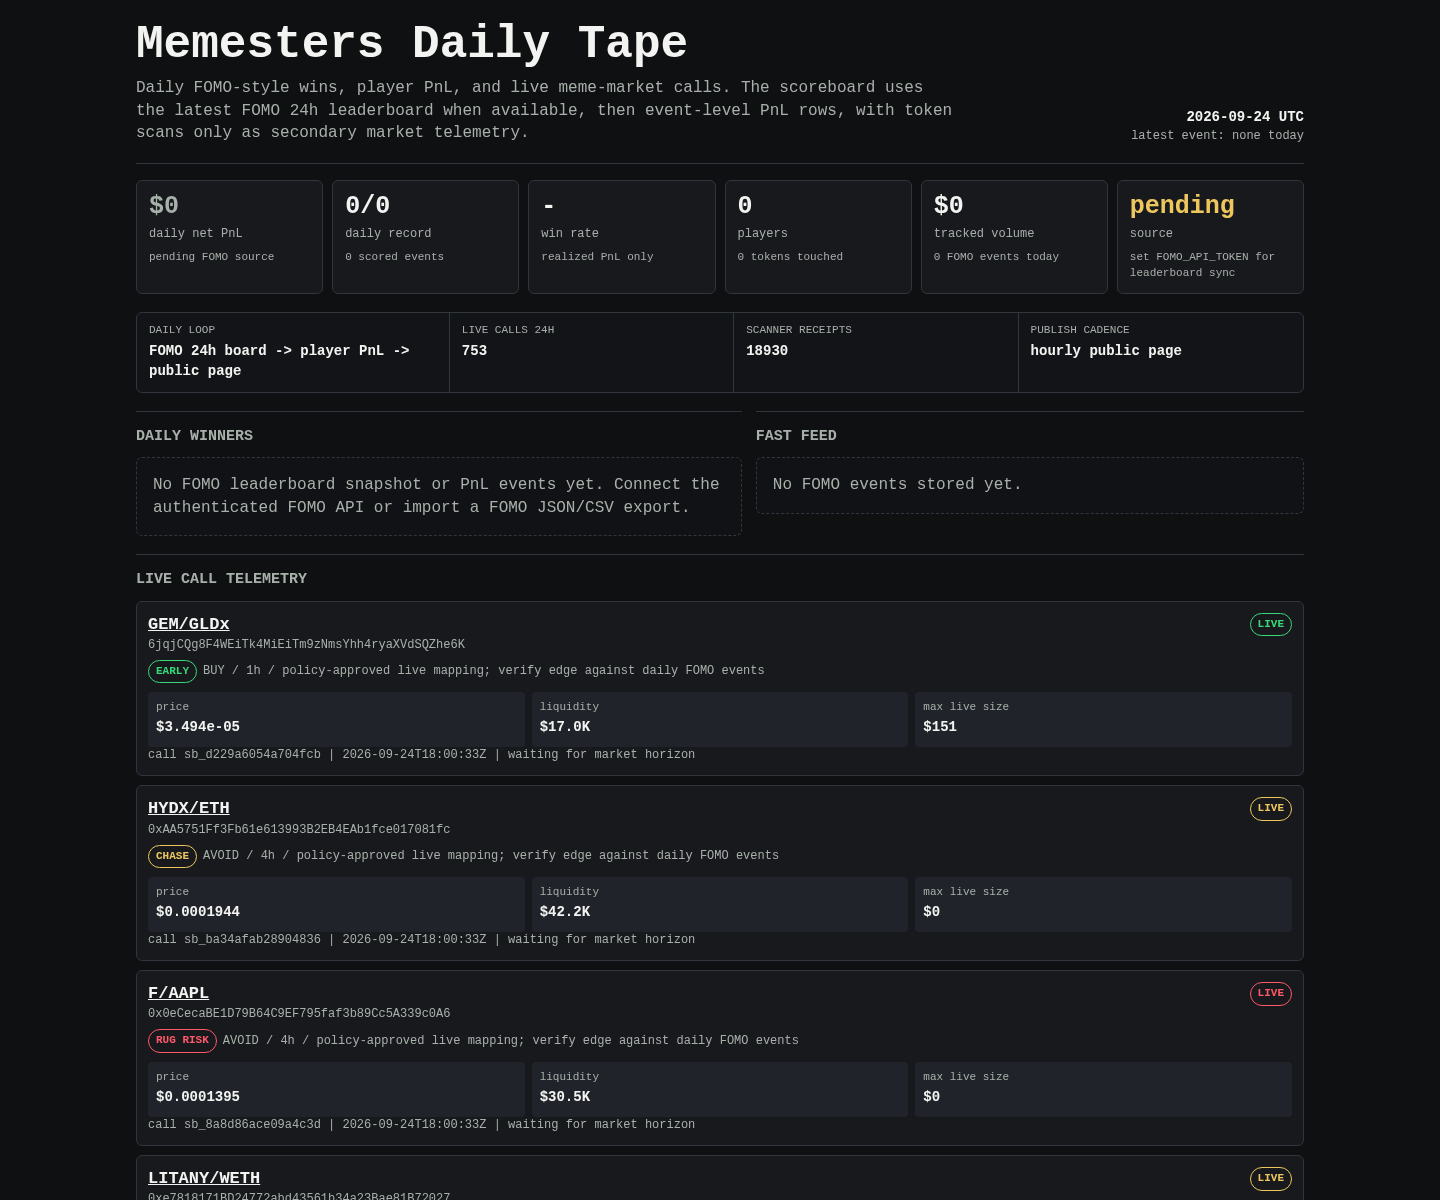
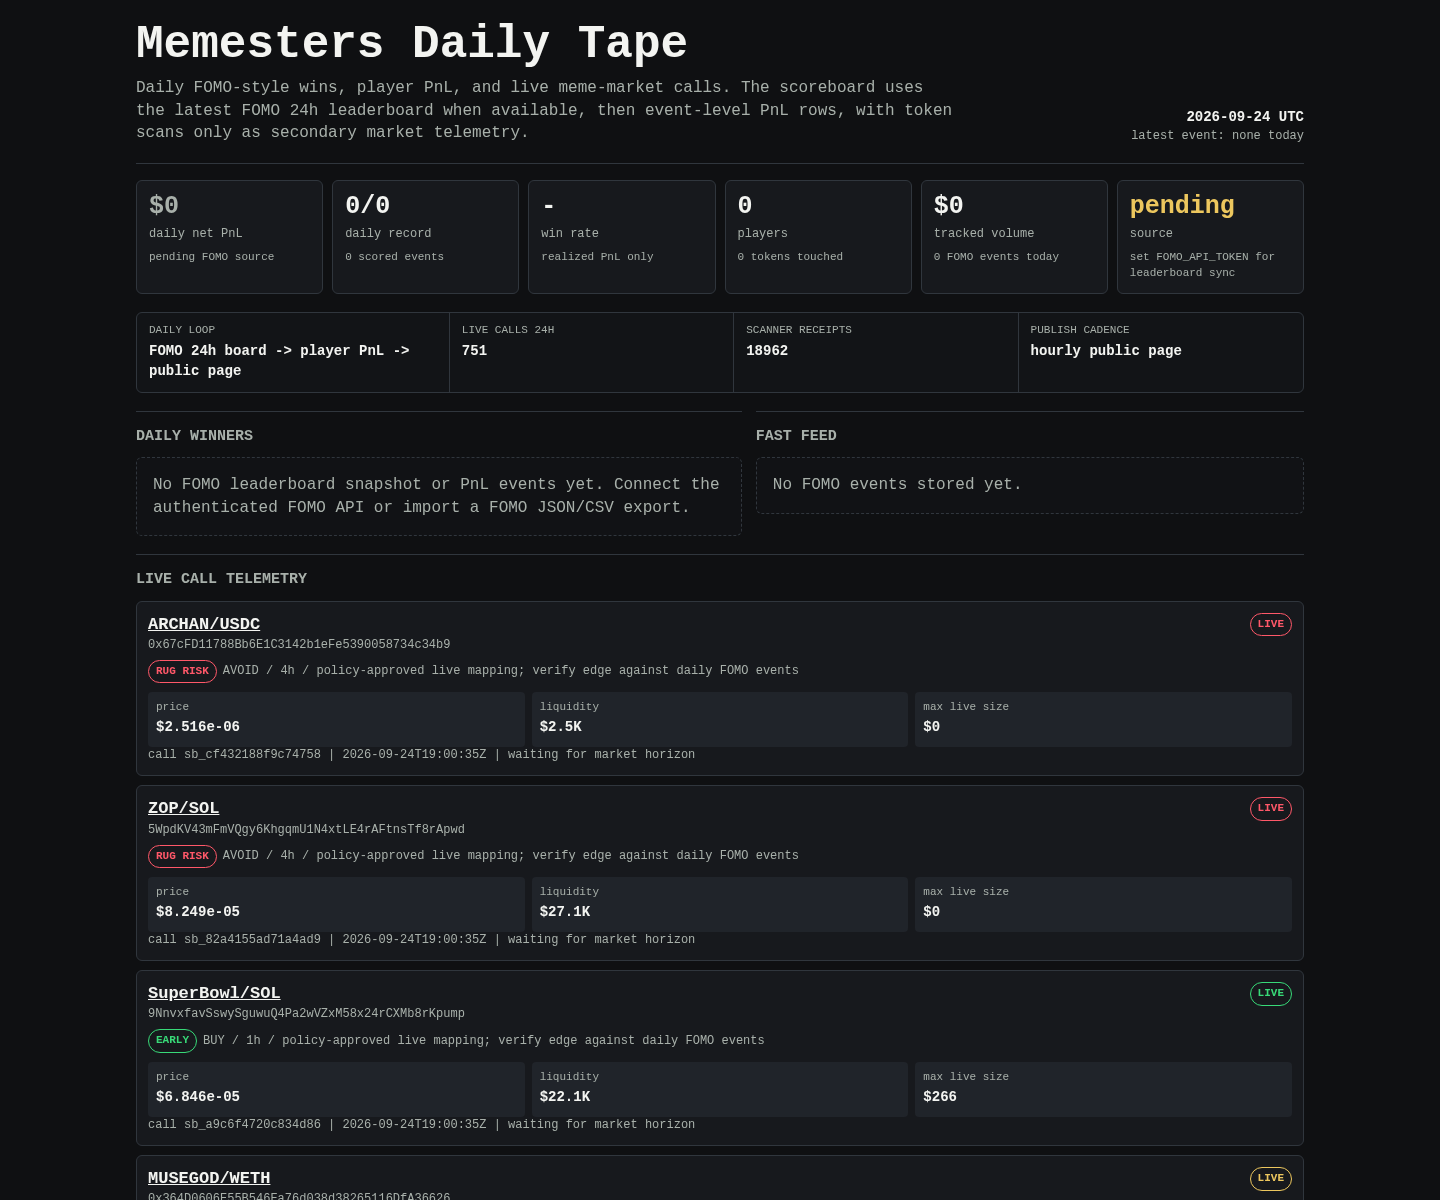
Update Memesters scoreboard

diff --git a/memesters/index.html b/memesters/index.html
@@ -149,8 +149,8 @@
 
     <div class="rail" aria-label="live operating loop">
       <div><span>daily loop</span><b>FOMO 24h board -> player PnL -> public page</b></div>
-      <div><span>live calls 24h</span><b>753</b></div>
-      <div><span>scanner receipts</span><b>18930</b></div>
+      <div><span>live calls 24h</span><b>751</b></div>
+      <div><span>scanner receipts</span><b>18962</b></div>
       <div><span>publish cadence</span><b>hourly public page</b></div>
     </div>
 
@@ -171,50 +171,8 @@
     <article class="receipt">
       <div class="receipt-head">
         <div>
-          <div class="pair"><a href="https://dexscreener.com/solana/anpxzzerfywfpuepyzd6da4nvwlhx4eerxwnakofdsrr">GEM/GLDx</a></div>
-          <div class="addr">6jqjCQg8F4WEiTk4MiEiTm9zNmsYhh4ryaXVdSQZhe6K</div>
-          <div class="addr policy-line">
-            <span class="badge early">EARLY</span>
-            <span>BUY / 1h / policy-approved live mapping; verify edge against daily FOMO events</span>
-          </div>
-        </div>
-        <span class="badge early">LIVE</span>
-      </div>
-      <div class="receipt-grid">
-        <div class="kv"><span>price</span><b>$3.494e-05</b></div>
-        <div class="kv"><span>liquidity</span><b>$17.0K</b></div>
-        <div class="kv"><span>max live size</span><b>$151</b></div>
-      </div>
-      <div class="outcomes">call sb_d229a6054a704fcb | 2026-09-24T18:00:33Z | waiting for market horizon</div>
-    </article>
-    
-
-    <article class="receipt">
-      <div class="receipt-head">
-        <div>
-          <div class="pair"><a href="https://dexscreener.com/robinhood/0x2f509c6e2675a1a7945902c64ba4aefaef32b2fbf34245f12078a1d0573db170">HYDX/ETH</a></div>
-          <div class="addr">0xAA5751Ff3Fb61e613993B2EB4EAb1fce017081fc</div>
-          <div class="addr policy-line">
-            <span class="badge chase">CHASE</span>
-            <span>AVOID / 4h / policy-approved live mapping; verify edge against daily FOMO events</span>
-          </div>
-        </div>
-        <span class="badge chase">LIVE</span>
-      </div>
-      <div class="receipt-grid">
-        <div class="kv"><span>price</span><b>$0.0001944</b></div>
-        <div class="kv"><span>liquidity</span><b>$42.2K</b></div>
-        <div class="kv"><span>max live size</span><b>$0</b></div>
-      </div>
-      <div class="outcomes">call sb_ba34afab28904836 | 2026-09-24T18:00:33Z | waiting for market horizon</div>
-    </article>
-    
-
-    <article class="receipt">
-      <div class="receipt-head">
-        <div>
-          <div class="pair"><a href="https://dexscreener.com/robinhood/0xecd14a21b7b2df5c0d3aade60b997a0e2f015c05dfcea64887db3093b0d49095">F/AAPL</a></div>
-          <div class="addr">0x0eCecaBE1D79B64C9EF795faf3b89Cc5A339c0A6</div>
+          <div class="pair"><a href="https://dexscreener.com/arc/0xe5faf3f472d30a391ef3849376f509fb0480027ebb4e126c0f2e7d8a15be54ec">ARCHAN/USDC</a></div>
+          <div class="addr">0x67cFD11788Bb6E1C3142b1eFe5390058734c34b9</div>
           <div class="addr policy-line">
             <span class="badge rug-risk">RUG RISK</span>
             <span>AVOID / 4h / policy-approved live mapping; verify edge against daily FOMO events</span>
@@ -223,145 +181,19 @@
         <span class="badge rug-risk">LIVE</span>
       </div>
       <div class="receipt-grid">
-        <div class="kv"><span>price</span><b>$0.0001395</b></div>
-        <div class="kv"><span>liquidity</span><b>$30.5K</b></div>
+        <div class="kv"><span>price</span><b>$2.516e-06</b></div>
+        <div class="kv"><span>liquidity</span><b>$2.5K</b></div>
         <div class="kv"><span>max live size</span><b>$0</b></div>
       </div>
-      <div class="outcomes">call sb_8a8d86ace09a4c3d | 2026-09-24T18:00:33Z | waiting for market horizon</div>
+      <div class="outcomes">call sb_cf432188f9c74758 | 2026-09-24T19:00:35Z | waiting for market horizon</div>
     </article>
     
 
     <article class="receipt">
       <div class="receipt-head">
         <div>
-          <div class="pair"><a href="https://dexscreener.com/robinhood/0x8eb6b3fe23461ebb9eb21f9b89b1579c6725d8cf">LITANY/WETH</a></div>
-          <div class="addr">0xe7818171BD24772abd43561b34a23Bae81B72027</div>
-          <div class="addr policy-line">
-            <span class="badge chase">CHASE</span>
-            <span>AVOID / 4h / policy-approved live mapping; verify edge against daily FOMO events</span>
-          </div>
-        </div>
-        <span class="badge chase">LIVE</span>
-      </div>
-      <div class="receipt-grid">
-        <div class="kv"><span>price</span><b>$0.0005481</b></div>
-        <div class="kv"><span>liquidity</span><b>$183.7K</b></div>
-        <div class="kv"><span>max live size</span><b>$0</b></div>
-      </div>
-      <div class="outcomes">call sb_72a702afa7f147da | 2026-09-24T18:00:33Z | waiting for market horizon</div>
-    </article>
-    
-
-    <article class="receipt">
-      <div class="receipt-head">
-        <div>
-          <div class="pair"><a href="https://dexscreener.com/robinhood/0x56833a249e1bb2389afa891116f5d8b54516339f992e05b11e15644f9a91fd08">0XP/ETH</a></div>
-          <div class="addr">0x32Dae312ABE8F6fDB782907b85EDBC90d2e74b02</div>
-          <div class="addr policy-line">
-            <span class="badge early">EARLY</span>
-            <span>BUY / 1h / policy-approved live mapping; verify edge against daily FOMO events</span>
-          </div>
-        </div>
-        <span class="badge early">LIVE</span>
-      </div>
-      <div class="receipt-grid">
-        <div class="kv"><span>price</span><b>$8.951e-05</b></div>
-        <div class="kv"><span>liquidity</span><b>$28.6K</b></div>
-        <div class="kv"><span>max live size</span><b>$343</b></div>
-      </div>
-      <div class="outcomes">call sb_ce8d3e4fac6a4cc8 | 2026-09-24T18:00:33Z | waiting for market horizon</div>
-    </article>
-    
-
-    <article class="receipt">
-      <div class="receipt-head">
-        <div>
-          <div class="pair"><a href="https://dexscreener.com/robinhood/0x66dab08b5a71bd4d432190cbe6fe88321208fe1976222fd2988e8f8e7395365d">MIX/ETH</a></div>
-          <div class="addr">0x167eBD1A7c8cFb65A34724300Aee3a9c36812357</div>
-          <div class="addr policy-line">
-            <span class="badge early">EARLY</span>
-            <span>BUY / 1h / policy-approved live mapping; verify edge against daily FOMO events</span>
-          </div>
-        </div>
-        <span class="badge early">LIVE</span>
-      </div>
-      <div class="receipt-grid">
-        <div class="kv"><span>price</span><b>$0.0001101</b></div>
-        <div class="kv"><span>liquidity</span><b>$31.7K</b></div>
-        <div class="kv"><span>max live size</span><b>$381</b></div>
-      </div>
-      <div class="outcomes">call sb_34cd8ba44d44482a | 2026-09-24T18:00:33Z | waiting for market horizon</div>
-    </article>
-    
-
-    <article class="receipt">
-      <div class="receipt-head">
-        <div>
-          <div class="pair"><a href="https://dexscreener.com/solana/sht8pyfxpfb8fh54i5nm13josh4cnyhersgm4kpedzq">CUTHBERT/GP</a></div>
-          <div class="addr">5rzMk1M2ayGPQ3zQLkWV6FMxvaLAXeXrAzotYLF5chcg</div>
-          <div class="addr policy-line">
-            <span class="badge chase">CHASE</span>
-            <span>AVOID / 4h / policy-approved live mapping; verify edge against daily FOMO events</span>
-          </div>
-        </div>
-        <span class="badge chase">LIVE</span>
-      </div>
-      <div class="receipt-grid">
-        <div class="kv"><span>price</span><b>$0.0001003</b></div>
-        <div class="kv"><span>liquidity</span><b>$27.3K</b></div>
-        <div class="kv"><span>max live size</span><b>$0</b></div>
-      </div>
-      <div class="outcomes">call sb_4e1f05b9cdf04269 | 2026-09-24T18:00:33Z | waiting for market horizon</div>
-    </article>
-    
-
-    <article class="receipt">
-      <div class="receipt-head">
-        <div>
-          <div class="pair"><a href="https://dexscreener.com/solana/8adqcgnamrpjrb7zdgm8a2skcekjjgf9wra7aodszn7a">Agrippa/SOL</a></div>
-          <div class="addr">6TfTBpkgRX5kzb1qbtijV1nZVTfzfbmbXE1hPsFrpump</div>
-          <div class="addr policy-line">
-            <span class="badge early">EARLY</span>
-            <span>BUY / 1h / policy-approved live mapping; verify edge against daily FOMO events</span>
-          </div>
-        </div>
-        <span class="badge early">LIVE</span>
-      </div>
-      <div class="receipt-grid">
-        <div class="kv"><span>price</span><b>$0.0001231</b></div>
-        <div class="kv"><span>liquidity</span><b>$30.2K</b></div>
-        <div class="kv"><span>max live size</span><b>$362</b></div>
-      </div>
-      <div class="outcomes">call sb_5182b9810539401f | 2026-09-24T18:00:32Z | waiting for market horizon</div>
-    </article>
-    
-
-    <article class="receipt">
-      <div class="receipt-head">
-        <div>
-          <div class="pair"><a href="https://dexscreener.com/ethereum/0x70e62d8cbf50f513b0843746b279d1bd5bf98110bcb4d53c9590f6806fc19b69">ASTEROID/SPCXon</a></div>
-          <div class="addr">0xEA7E47633E96fAd1490e2e4C62f1479Eb6268D79</div>
-          <div class="addr policy-line">
-            <span class="badge chase">CHASE</span>
-            <span>AVOID / 4h / policy-approved live mapping; verify edge against daily FOMO events</span>
-          </div>
-        </div>
-        <span class="badge chase">LIVE</span>
-      </div>
-      <div class="receipt-grid">
-        <div class="kv"><span>price</span><b>$0.0001982</b></div>
-        <div class="kv"><span>liquidity</span><b>$67.8K</b></div>
-        <div class="kv"><span>max live size</span><b>$0</b></div>
-      </div>
-      <div class="outcomes">call sb_9fea4ee0282041fd | 2026-09-24T17:45:29Z | waiting for market horizon</div>
-    </article>
-    
-
-    <article class="receipt">
-      <div class="receipt-head">
-        <div>
-          <div class="pair"><a href="https://dexscreener.com/sui/0x8543b359c643108ed24c37bd8a47df8367423c6f58b7d2d9d320b9fd82650ebd">NRV/SUI</a></div>
-          <div class="addr">0xa1964d8d45e2cab45e4e675826ebba62a79e72fb740f519253dffa82d4fca785::nrv::NRV</div>
+          <div class="pair"><a href="https://dexscreener.com/solana/duv3nwn9ykl72gv1b7uv38bpgicoeajvl8rmexbq1tcv">ZOP/SOL</a></div>
+          <div class="addr">5WpdKV43mFmVQgy6KhgqmU1N4xtLE4rAFtnsTf8rApwd</div>
           <div class="addr policy-line">
             <span class="badge rug-risk">RUG RISK</span>
             <span>AVOID / 4h / policy-approved live mapping; verify edge against daily FOMO events</span>
@@ -370,11 +202,179 @@
         <span class="badge rug-risk">LIVE</span>
       </div>
       <div class="receipt-grid">
-        <div class="kv"><span>price</span><b>$0.0002615</b></div>
-        <div class="kv"><span>liquidity</span><b>$7.2K</b></div>
+        <div class="kv"><span>price</span><b>$8.249e-05</b></div>
+        <div class="kv"><span>liquidity</span><b>$27.1K</b></div>
         <div class="kv"><span>max live size</span><b>$0</b></div>
       </div>
-      <div class="outcomes">call sb_344262ef9b9d4693 | 2026-09-24T17:45:29Z | waiting for market horizon</div>
+      <div class="outcomes">call sb_82a4155ad71a4ad9 | 2026-09-24T19:00:35Z | waiting for market horizon</div>
+    </article>
+    
+
+    <article class="receipt">
+      <div class="receipt-head">
+        <div>
+          <div class="pair"><a href="https://dexscreener.com/solana/7lgdum7jmz2tqc7gbzvugsbpscwgtph4sqxrkzz22ztg">SuperBowl/SOL</a></div>
+          <div class="addr">9NnvxfavSswySguwuQ4Pa2wVZxM58x24rCXMb8rKpump</div>
+          <div class="addr policy-line">
+            <span class="badge early">EARLY</span>
+            <span>BUY / 1h / policy-approved live mapping; verify edge against daily FOMO events</span>
+          </div>
+        </div>
+        <span class="badge early">LIVE</span>
+      </div>
+      <div class="receipt-grid">
+        <div class="kv"><span>price</span><b>$6.846e-05</b></div>
+        <div class="kv"><span>liquidity</span><b>$22.1K</b></div>
+        <div class="kv"><span>max live size</span><b>$266</b></div>
+      </div>
+      <div class="outcomes">call sb_a9c6f4720c834d86 | 2026-09-24T19:00:35Z | waiting for market horizon</div>
+    </article>
+    
+
+    <article class="receipt">
+      <div class="receipt-head">
+        <div>
+          <div class="pair"><a href="https://dexscreener.com/robinhood/0x01f47a2457edfff954f3664c3c7956defe774f99">MUSEGOD/WETH</a></div>
+          <div class="addr">0x364D0606E55B546Ea76d038d38265116DfA36626</div>
+          <div class="addr policy-line">
+            <span class="badge chase">CHASE</span>
+            <span>AVOID / 4h / policy-approved live mapping; verify edge against daily FOMO events</span>
+          </div>
+        </div>
+        <span class="badge chase">LIVE</span>
+      </div>
+      <div class="receipt-grid">
+        <div class="kv"><span>price</span><b>$0.001282</b></div>
+        <div class="kv"><span>liquidity</span><b>$103.2K</b></div>
+        <div class="kv"><span>max live size</span><b>$0</b></div>
+      </div>
+      <div class="outcomes">call sb_24d9cb115edd4451 | 2026-09-24T19:00:35Z | waiting for market horizon</div>
+    </article>
+    
+
+    <article class="receipt">
+      <div class="receipt-head">
+        <div>
+          <div class="pair"><a href="https://dexscreener.com/robinhood/0x7d4dea0a46f5feb908820c2137f3b3d57714913a">JOLLY/WETH</a></div>
+          <div class="addr">0x79ED00A7757096fFaEDeB5E3bD8912b8bdC5C0b2</div>
+          <div class="addr policy-line">
+            <span class="badge chase">CHASE</span>
+            <span>AVOID / 4h / policy-approved live mapping; verify edge against daily FOMO events</span>
+          </div>
+        </div>
+        <span class="badge chase">LIVE</span>
+      </div>
+      <div class="receipt-grid">
+        <div class="kv"><span>price</span><b>$0.000235</b></div>
+        <div class="kv"><span>liquidity</span><b>$99.1K</b></div>
+        <div class="kv"><span>max live size</span><b>$0</b></div>
+      </div>
+      <div class="outcomes">call sb_69b327dabca74fdb | 2026-09-24T19:00:35Z | waiting for market horizon</div>
+    </article>
+    
+
+    <article class="receipt">
+      <div class="receipt-head">
+        <div>
+          <div class="pair"><a href="https://dexscreener.com/bsc/0xf75cdee96765c6d230528c247fc21d11f9f3927a">MAME/BNCB</a></div>
+          <div class="addr">0x39d9B36Aa0E7A1FEe97D6ff614420f7308ba7777</div>
+          <div class="addr policy-line">
+            <span class="badge chase">CHASE</span>
+            <span>AVOID / 4h / policy-approved live mapping; verify edge against daily FOMO events</span>
+          </div>
+        </div>
+        <span class="badge chase">LIVE</span>
+      </div>
+      <div class="receipt-grid">
+        <div class="kv"><span>price</span><b>$0.001892</b></div>
+        <div class="kv"><span>liquidity</span><b>$143.9K</b></div>
+        <div class="kv"><span>max live size</span><b>$0</b></div>
+      </div>
+      <div class="outcomes">call sb_4b9c8cf3c9314af1 | 2026-09-24T19:00:35Z | waiting for market horizon</div>
+    </article>
+    
+
+    <article class="receipt">
+      <div class="receipt-head">
+        <div>
+          <div class="pair"><a href="https://dexscreener.com/solana/4xhjkom7d17hqm5masdt8akgkskedty62cpapccnjvk7">SNACKED/SOL</a></div>
+          <div class="addr">CW1mrqPVKs42MYWfiEePFcKasEzqXsS64rrLwF7kpump</div>
+          <div class="addr policy-line">
+            <span class="badge rug-risk">RUG RISK</span>
+            <span>AVOID / 4h / policy-approved live mapping; verify edge against daily FOMO events</span>
+          </div>
+        </div>
+        <span class="badge rug-risk">LIVE</span>
+      </div>
+      <div class="receipt-grid">
+        <div class="kv"><span>price</span><b>$2.919e-06</b></div>
+        <div class="kv"><span>liquidity</span><b>$3.0K</b></div>
+        <div class="kv"><span>max live size</span><b>$0</b></div>
+      </div>
+      <div class="outcomes">call sb_895bb581aca14c44 | 2026-09-24T19:00:35Z | waiting for market horizon</div>
+    </article>
+    
+
+    <article class="receipt">
+      <div class="receipt-head">
+        <div>
+          <div class="pair"><a href="https://dexscreener.com/robinhood/0xafec21945ea9a9b46c1bcd55263d9286be0f40feaaac62ca1128e0fb2e085d89">FOOMS/ETH</a></div>
+          <div class="addr">0x749216618Ac66eA41Ee4CaBF5229D83D74f04586</div>
+          <div class="addr policy-line">
+            <span class="badge chase">CHASE</span>
+            <span>AVOID / 4h / policy-approved live mapping; verify edge against daily FOMO events</span>
+          </div>
+        </div>
+        <span class="badge chase">LIVE</span>
+      </div>
+      <div class="receipt-grid">
+        <div class="kv"><span>price</span><b>$0.0008309</b></div>
+        <div class="kv"><span>liquidity</span><b>$87.6K</b></div>
+        <div class="kv"><span>max live size</span><b>$0</b></div>
+      </div>
+      <div class="outcomes">call sb_2846f522844e4092 | 2026-09-24T19:00:35Z | waiting for market horizon</div>
+    </article>
+    
+
+    <article class="receipt">
+      <div class="receipt-head">
+        <div>
+          <div class="pair"><a href="https://dexscreener.com/solana/c3sjprawprgcy6nrksnn5wpy8ysbiwjvurmrhcbcpz5x">JEANINU/SOL</a></div>
+          <div class="addr">qe5iaQ3GkKa1T11XvFirmyZZ7vy7uYZX994UhwVpump</div>
+          <div class="addr policy-line">
+            <span class="badge early">EARLY</span>
+            <span>BUY / 1h / policy-approved live mapping; verify edge against daily FOMO events</span>
+          </div>
+        </div>
+        <span class="badge early">LIVE</span>
+      </div>
+      <div class="receipt-grid">
+        <div class="kv"><span>price</span><b>$7.961e-05</b></div>
+        <div class="kv"><span>liquidity</span><b>$24.4K</b></div>
+        <div class="kv"><span>max live size</span><b>$293</b></div>
+      </div>
+      <div class="outcomes">call sb_c452798544fe4a25 | 2026-09-24T18:45:29Z | waiting for market horizon</div>
+    </article>
+    
+
+    <article class="receipt">
+      <div class="receipt-head">
+        <div>
+          <div class="pair"><a href="https://dexscreener.com/solana/c2u372c8rn2xhzegn3ljrhcrepganx92sdns9qxsewo">OnlyCats/SOL</a></div>
+          <div class="addr">12m8Pwr1UHmmyM2Qh9bJBNurR9mmcZa1adCkAvdLpump</div>
+          <div class="addr policy-line">
+            <span class="badge rug-risk">RUG RISK</span>
+            <span>AVOID / 4h / policy-approved live mapping; verify edge against daily FOMO events</span>
+          </div>
+        </div>
+        <span class="badge rug-risk">LIVE</span>
+      </div>
+      <div class="receipt-grid">
+        <div class="kv"><span>price</span><b>$0.0001388</b></div>
+        <div class="kv"><span>liquidity</span><b>$32.7K</b></div>
+        <div class="kv"><span>max live size</span><b>$0</b></div>
+      </div>
+      <div class="outcomes">call sb_b082c32b7feb48c2 | 2026-09-24T18:45:29Z | waiting for market horizon</div>
     </article>
     
     </section>
